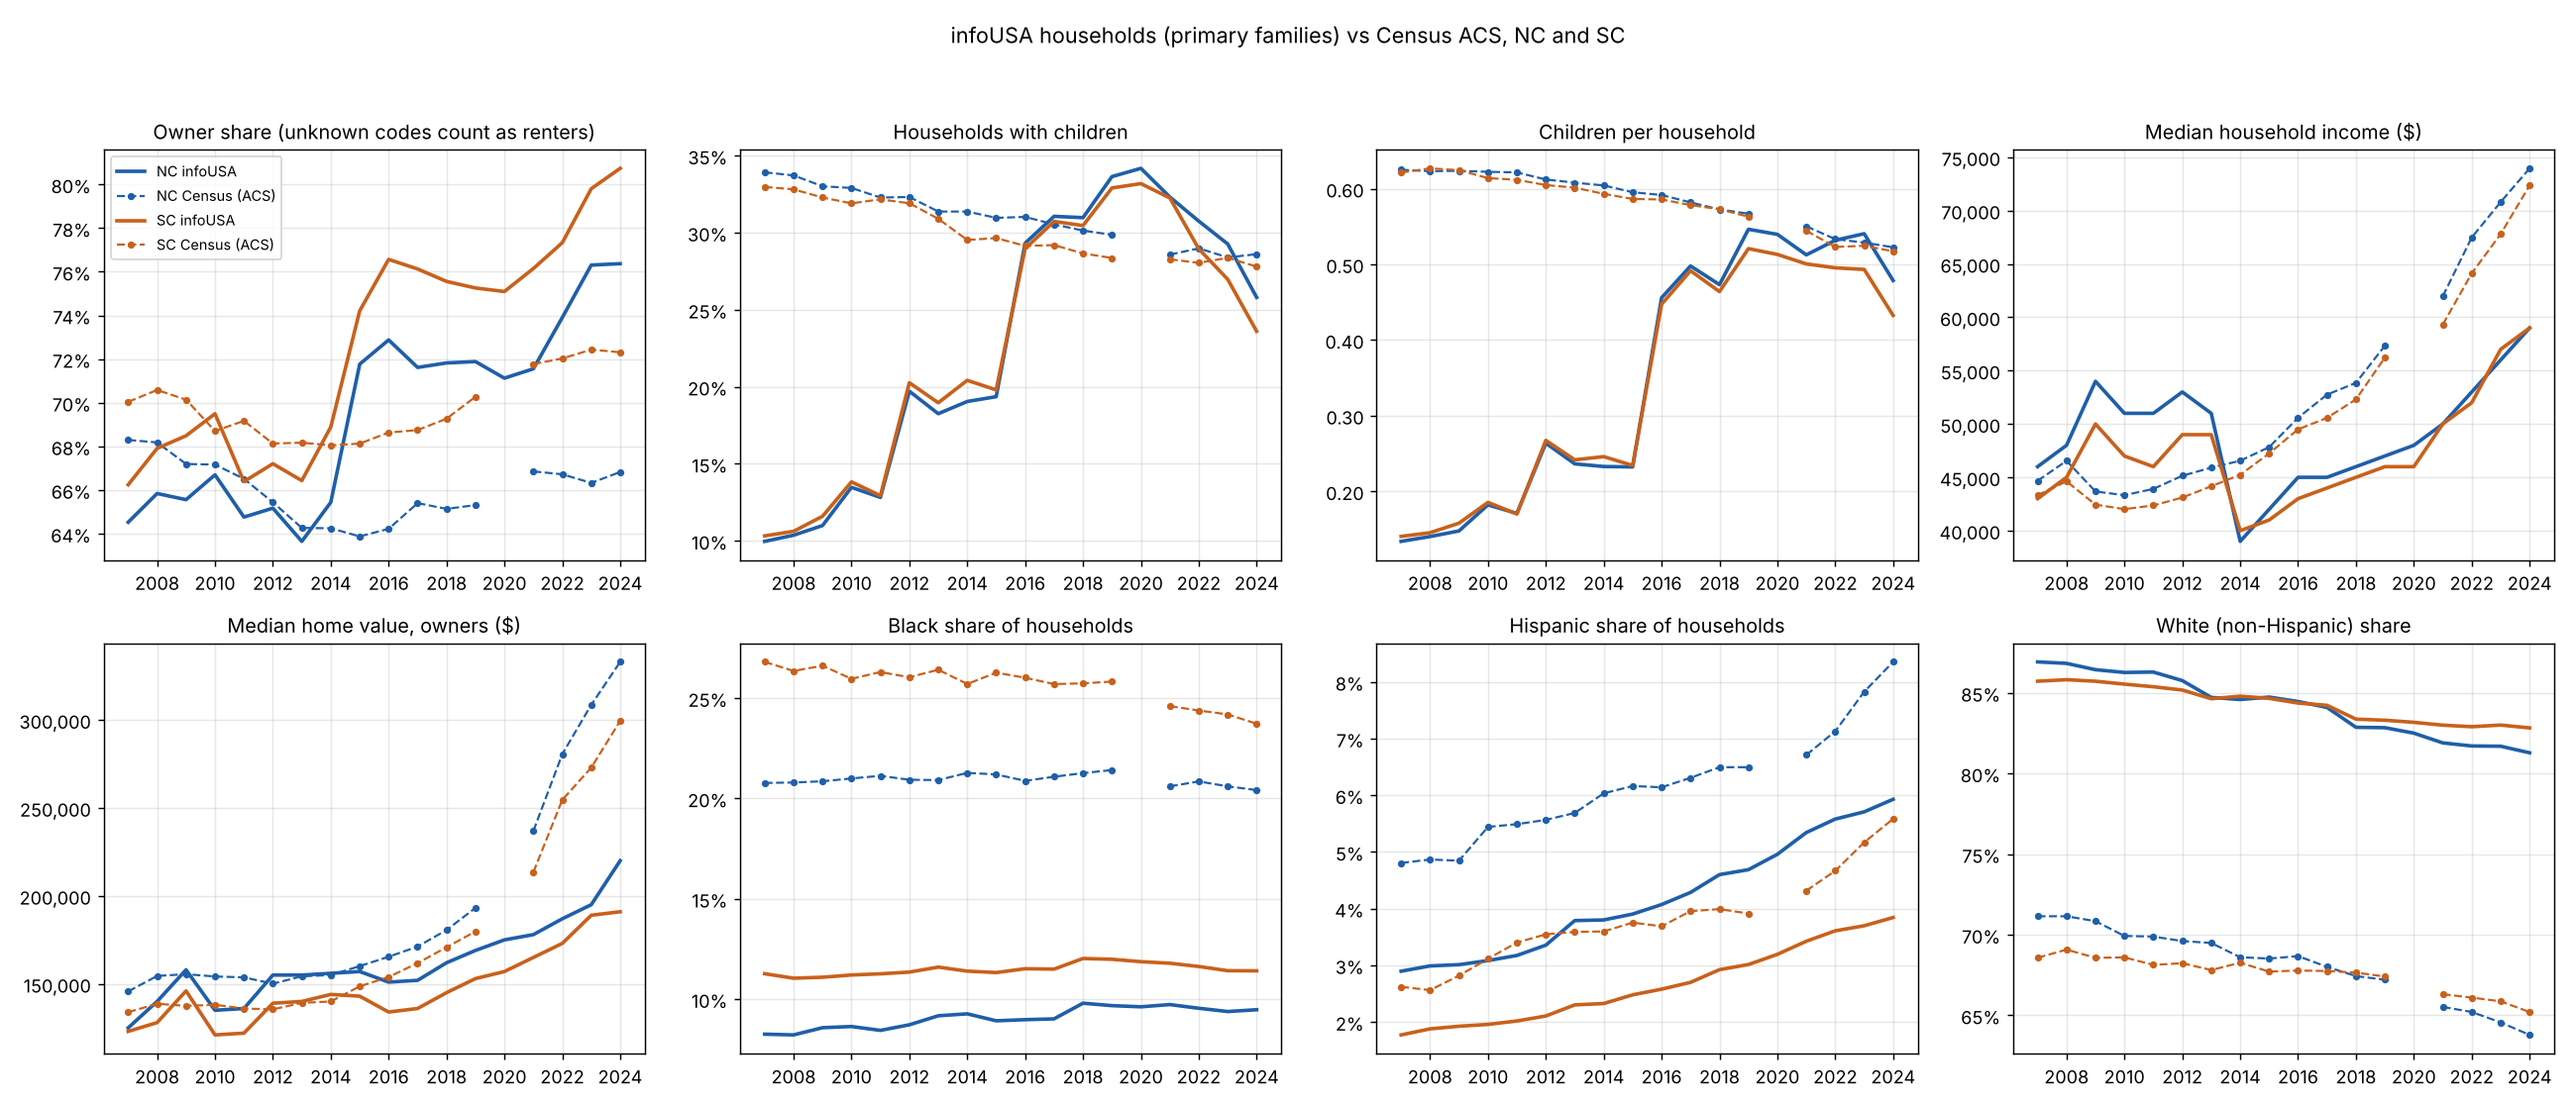
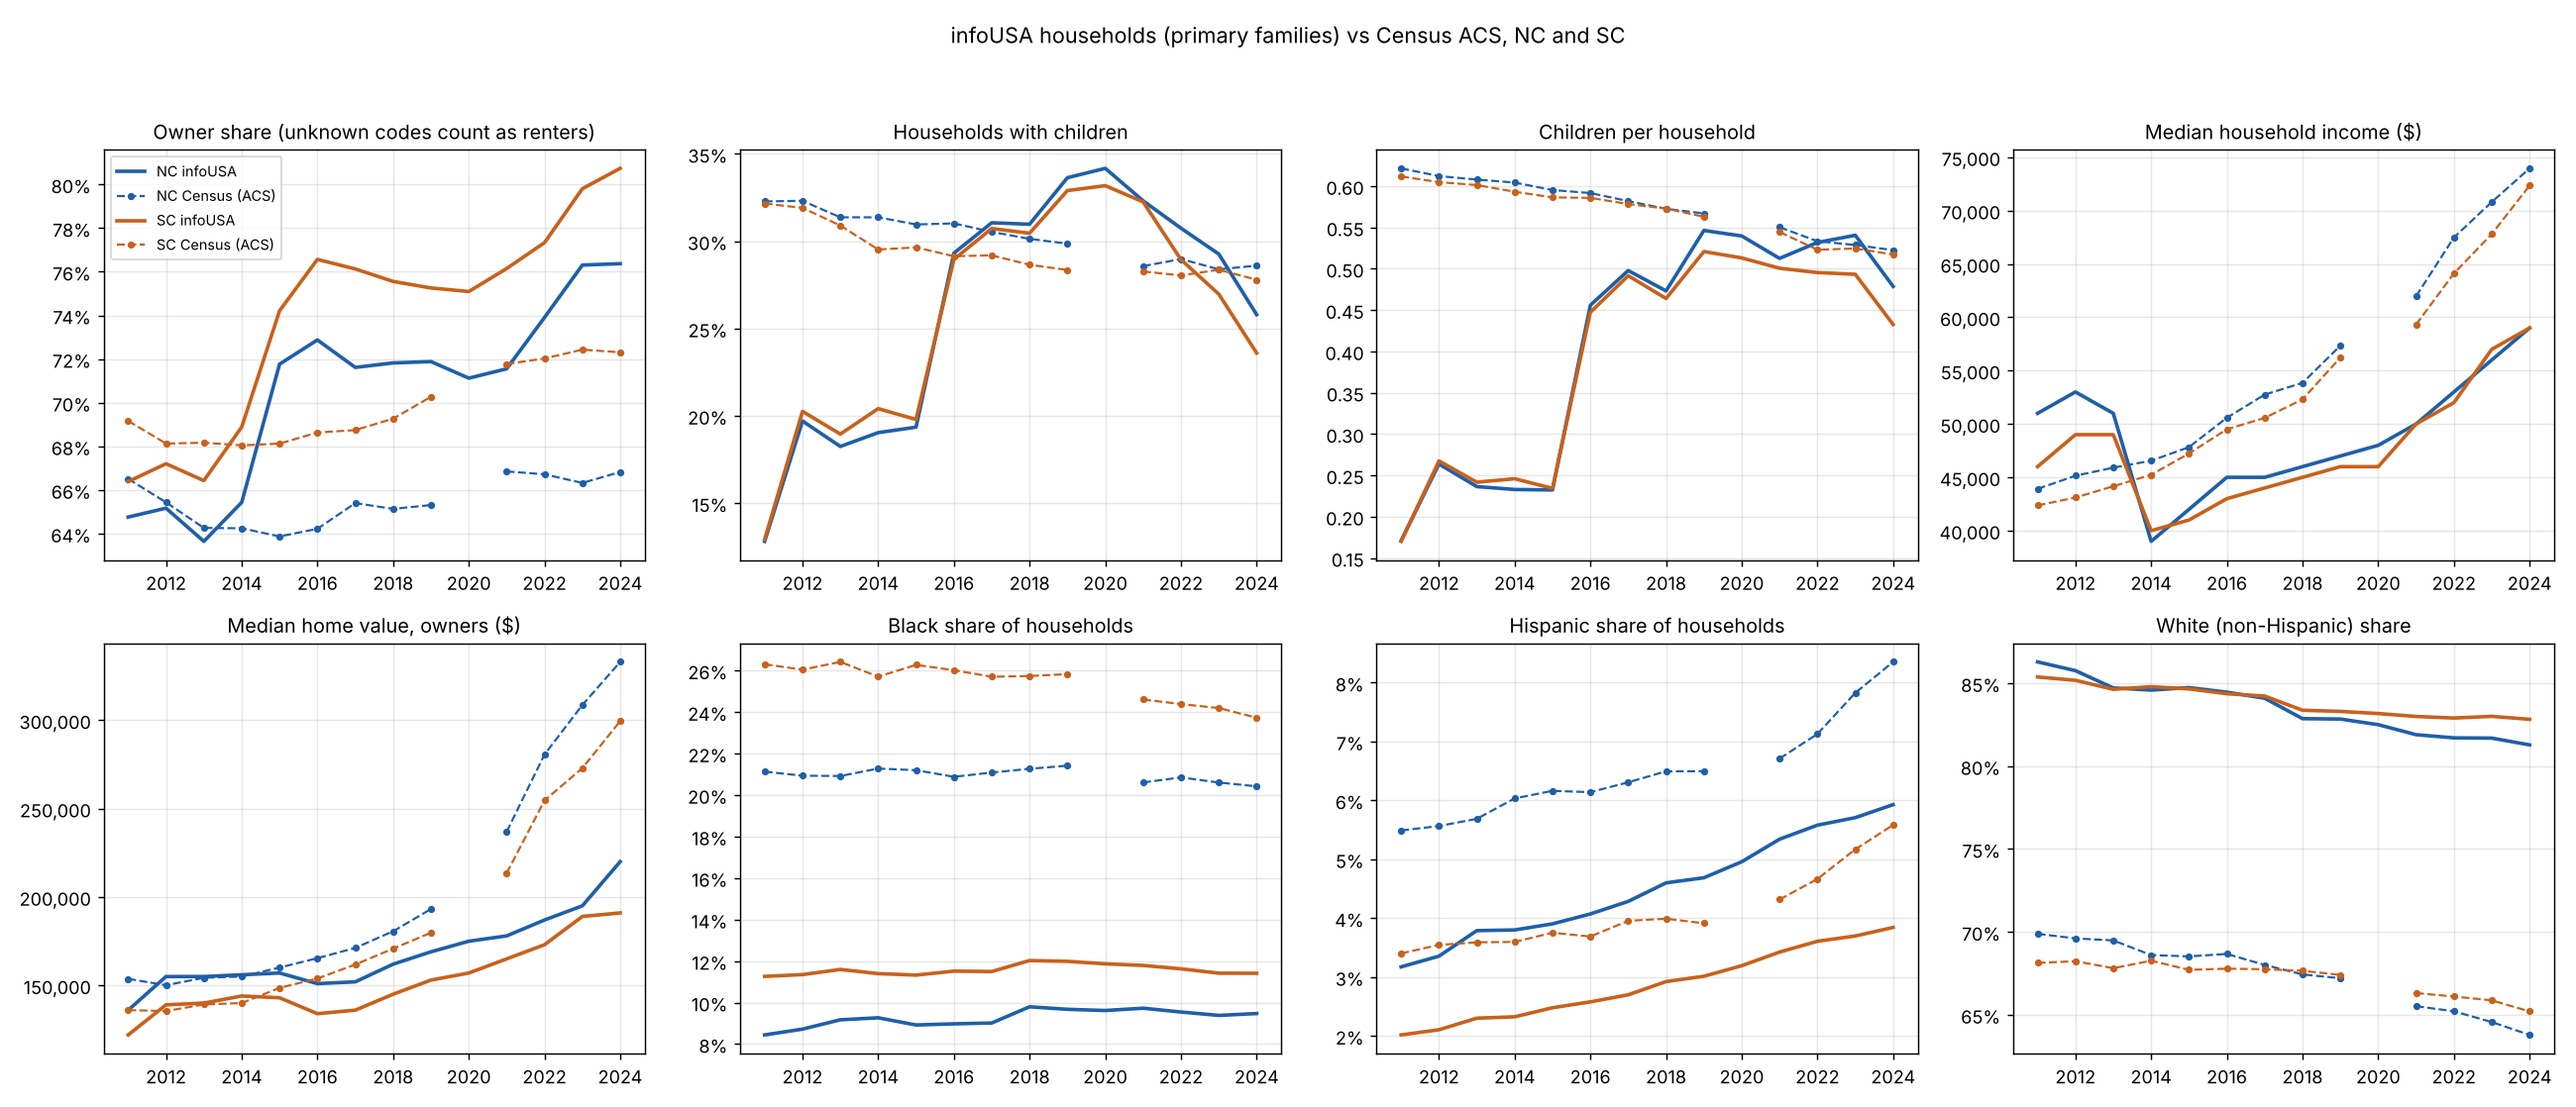
US migration map on one blue scale; demographic trends from 2011
- migrate_maps.py: the four state maps become one map of people moving
  between each state and NC or SC (in and out combined), light-to-dark blue,
  log scale; NC and SC in grey with the flow between them in the title.
- Setting panel_first_year is now first_year (2011) and also starts the
  demographic trends (step 06); the trends figure is redrawn for 2011-2024.

Claude-Session: https://claude.ai/code/session_01Ph8eQPDALPc2Ah5bwGQ28Q

diff --git a/scripts/inspect/migrate_maps.py b/scripts/inspect/migrate_maps.py
@@ -11,8 +11,8 @@ migrate.tech.cornell.edu.
    residents who moved to another block group in a year; people moving in
    from another county or state, and out to another county or state, per 100
    residents a year. Block-group totals are summed to tracts.
-2. States: people moving from each state to NC and to SC, and from NC and SC
-   to each state (yearly average, 2011-2019; lower 48 states and DC shown).
+2. States: people moving between each state and NC or SC, in and out
+   combined (yearly average, 2011-2019; lower 48 states and DC shown).
 
 Not a pipeline step. Run on the server after migrate_explore.py:
     python scripts/inspect/migrate_maps.py
@@ -108,37 +108,35 @@ def plot_tracts(rates: pd.DataFrame, path: Path) -> list[str]:
 
 
 def plot_states(flows: pd.DataFrame, n_years: int, path: Path) -> None:
+    """One map: people moving between each state and NC or SC, in and out combined."""
     import matplotlib
     matplotlib.use("Agg")
     import matplotlib.pyplot as plt
     fips = [f for f in geo.STATE_FIPS.values() if f not in NOT_SHOWN]
     counties = census.boundaries("county", fips)
     states = counties.assign(st=counties["geoid"].str[:2]).dissolve("st").reset_index().to_crs(ALBERS)
-    postal = {v: k for k, v in geo.STATE_FIPS.items()}
-    states["postal"] = states["st"].map(postal)
-    vals = flows["people"][flows["people"] > 0]
-    norm = matplotlib.colors.LogNorm(vmin=max(vals.quantile(0.02), 1), vmax=vals.max())
-    cmap = "viridis_r"
-    fig, axes = plt.subplots(2, 2, figsize=(15, 9.6))
-    for i, st in enumerate(STUDY.values()):
-        for j, (direction, title) in enumerate((("into", f"Moved to {st} from each state"),
-                                                ("out of", f"Moved from {st} to each state"))):
-            ax = axes[i, j]
-            f = flows[(flows["study_state"] == st) & (flows["direction"] == direction)]
-            g = states.merge(f, left_on="postal", right_on="other_state", how="left")
-            g.plot(ax=ax, color="#eeeeee", edgecolor="white", linewidth=0.4)
-            g[g["people"].notna()].plot(ax=ax, column="people", cmap=cmap, norm=norm, edgecolor="white",
-                                        linewidth=0.4)
-            states[states["postal"] == st].plot(ax=ax, color="#d62728", edgecolor="black", linewidth=0.8)
-            ax.set_title(title, fontsize=11)
-            ax.set_axis_off()
-    sm = matplotlib.cm.ScalarMappable(cmap=cmap, norm=norm)
-    cb = fig.colorbar(sm, ax=list(axes.flat), orientation="horizontal", fraction=0.04, pad=0.03)
-    cb.set_ticks([v for v in (30, 100, 300, 1000, 3000, 10000, 30000) if norm.vmin <= v <= norm.vmax])
-    cb.set_label(f"people a year (average of {n_years} years, log scale); red: the state itself")
+    states["postal"] = states["st"].map({v: k for k, v in geo.STATE_FIPS.items()})
+    study = list(STUDY.values())
+    total = flows[~flows["other_state"].isin(study)].groupby("other_state")["people"].sum()
+    # NC rows hold both directions between NC and SC
+    between = flows[(flows["study_state"] == study[0]) & (flows["other_state"] == study[1])]["people"].sum()
+    g = states.merge(total.rename("people"), left_on="postal", right_index=True, how="left")
+    norm = matplotlib.colors.LogNorm(vmin=max(total.min(), 1), vmax=total.max())
+    blues = matplotlib.colors.ListedColormap(plt.cm.Blues(np.linspace(0.18, 1, 256)))  # light blue to dark blue
+    fig, ax = plt.subplots(figsize=(12, 7.6))
+    g.plot(ax=ax, color="#eeeeee", edgecolor="white", linewidth=0.5)
+    g[g["people"].notna()].plot(ax=ax, column="people", cmap=blues, norm=norm, edgecolor="white", linewidth=0.5)
+    states[states["postal"].isin(study)].plot(ax=ax, color="#808080", edgecolor="black", linewidth=0.8)
+    ax.set_axis_off()
+    sm = matplotlib.cm.ScalarMappable(cmap=blues, norm=norm)
+    cb = fig.colorbar(sm, ax=ax, orientation="horizontal", fraction=0.04, pad=0.02)
+    cb.set_ticks([v for v in (100, 300, 1000, 3000, 10000, 30000, 100000) if norm.vmin <= v <= norm.vmax])
     cb.ax.xaxis.set_major_formatter(matplotlib.ticker.FuncFormatter(lambda v, _: f"{v:,.0f}"))
-    fig.suptitle("MIGRATE: moves between NC or SC and each other state, 2011-2019 "
-                 "(Alaska and Hawaii not shown)", fontsize=12)
+    cb.ax.xaxis.set_minor_formatter(matplotlib.ticker.NullFormatter())
+    cb.set_label(f"people a year moving to or from NC or SC (average of {n_years} years, log scale)")
+    ax.set_title("MIGRATE: moves between each state and NC or SC, in and out combined, 2011-2019\n"
+                 f"NC and SC in grey; between the two: {between:,.0f} people a year. "
+                 "Alaska and Hawaii not shown.", fontsize=11)
     fig.savefig(path, dpi=150, bbox_inches="tight")
     plt.close(fig)
 

diff --git a/scripts/inspect/id_churn_check.py b/scripts/inspect/id_churn_check.py
@@ -1,6 +1,6 @@
 """Do infoUSA IDs change when people move? A name check within NC/SC.
 
-For each pair of consecutive years from panel_first_year: primary families
+For each pair of consecutive years from first_year: primary families
 in NC/SC whose FAMILYID is in neither the next year's NC/SC file nor its
 step 07 file of records in other states ("vanished"). Their adults are looked
 up in the next year's NC/SC file by first name, last name and birth year
@@ -19,7 +19,7 @@ exactly one person has it in the next year.
 
 Not a pipeline step. Run on the server after steps 01 and 07:
     python scripts/inspect/id_churn_check.py [first year of pairs ...]
-(default: every pair from panel_first_year). Names are used inside DuckDB
+(default: every pair from first_year). Names are used inside DuckDB
 only; the outputs are counts: output/logs/id_churn_check.md and
 output/tables/id_churn_check.csv.
 """
@@ -158,7 +158,7 @@ def main() -> None:
     if not files:
         sys.exit(f"no converted files in {paths.INFOUSA_PARQUET}; run step 01 first")
     states = geo.study_states()
-    first = settings.PANEL_FIRST_YEAR or min(files)
+    first = settings.FIRST_YEAR or min(files)
     years = [y for y in sorted(files) if y >= first]
     pairs = [y for y in years[:-1] if y + 1 in files]
     if len(sys.argv) > 1:

diff --git a/src/flood_ra/settings.py b/src/flood_ra/settings.py
@@ -18,7 +18,7 @@ INFOUSA_DELIM = _S.get("infousa_delim", ",")
 INFOUSA_ENCODING = _S.get("infousa_encoding", "latin-1")
 PREFER_VERSION = {int(y): str(v) for y, v in (_S.get("prefer_version") or {}).items()}
 LAST_YEAR = int(_S["last_year"]) if _S.get("last_year") else None  # None: every converted year
-PANEL_FIRST_YEAR = int(_S["panel_first_year"]) if _S.get("panel_first_year") else None
+FIRST_YEAR = int(_S["first_year"]) if _S.get("first_year") else None
 STUDY_STATES = [s.upper() for s in _S.get("study_states") or []]
 DROP_COLUMNS = list(_S.get("drop_columns") or [])
 FLOOD_FILES = dict(_S["flood_files"])

diff --git a/scripts/07_national_follow.py b/scripts/07_national_follow.py
@@ -118,7 +118,7 @@ def main() -> None:
     print(f"panel: {n_fam:,} households, {n_per:,} adults", flush=True)
 
     # national files from the panel's first year on (the IDs above use every analysis year)
-    wanted = {y for y in files if not settings.PANEL_FIRST_YEAR or y >= settings.PANEL_FIRST_YEAR}
+    wanted = {y for y in files if not settings.FIRST_YEAR or y >= settings.FIRST_YEAR}
     raw = {y: f for y, v, f in paths.raw_files() if y in wanted and v == settings.PREFER_VERSION.get(y, "main")}
     absent = sorted(wanted - set(raw))
     if absent:

diff --git a/scripts/08_panel.py b/scripts/08_panel.py
@@ -387,7 +387,7 @@ def main() -> None:
     if not files:
         sys.exit(f"no converted files in {paths.INFOUSA_PARQUET}; run step 01 first")
     states = geo.study_states()
-    first = settings.PANEL_FIRST_YEAR
+    first = settings.FIRST_YEAR
     years = [y for y in sorted(files) if not first or y >= first]
     if BASE_YEAR not in years:
         print(f"note: {BASE_YEAR} is not among the panel years {years[0]}-{years[-1]}")

diff --git a/scripts/06_demographics.py b/scripts/06_demographics.py
@@ -164,7 +164,7 @@ def plot_maps(shapes, tracts: pd.DataFrame, acs_tracts: pd.DataFrame | None, sta
 
 
 def main() -> None:
-    files = paths.chosen_files()
+    files = {y: f for y, f in paths.chosen_files().items() if not settings.FIRST_YEAR or y >= settings.FIRST_YEAR}
     if not files:
         sys.exit(f"no converted files in {paths.INFOUSA_PARQUET}; run step 01 first")
     for d in (TABLES, FIGURES, PRIVATE):

diff --git a/README.md b/README.md
@@ -118,7 +118,7 @@ When a pull changes `requirements.txt`, run `pip install -r requirements.txt` fi
   Other. Unknown codes (00, ZZ, blank) are left out of the race shares.
 
 - **07** and **08** build a household panel: every FAMILYID that is a
-  primary family in NC or SC in at least one year from `panel_first_year`
+  primary family in NC or SC in at least one year from `first_year`
   (2011, the first MIGRATE year) to `last_year`, followed in every year it
   appears anywhere in the US.
   - **07** reads each year's national file once (slow, like step 01) and
@@ -191,7 +191,9 @@ Raw inputs are read-only: the pipeline never writes into `infousa_raw` or
 
 ## Decisions so far (config/settings.yaml)
 
-- **Years: 2007-2024** (`last_year`). The 2025 file is converted but left
+- **Years: 2007-2024** (`last_year`); the demographic trends (step 06) and
+  the household panel (steps 07-08) start in 2011 (`first_year`, the first
+  MIGRATE year). The 2025 file is converted but left
   out of every step from 03 on, because Data Axle rebuilt it: 21% more
   records (about 560,000 new primary families at new addresses), owner codes
   moved into unknown (NC owner share down 12 points while ACS is flat), and
